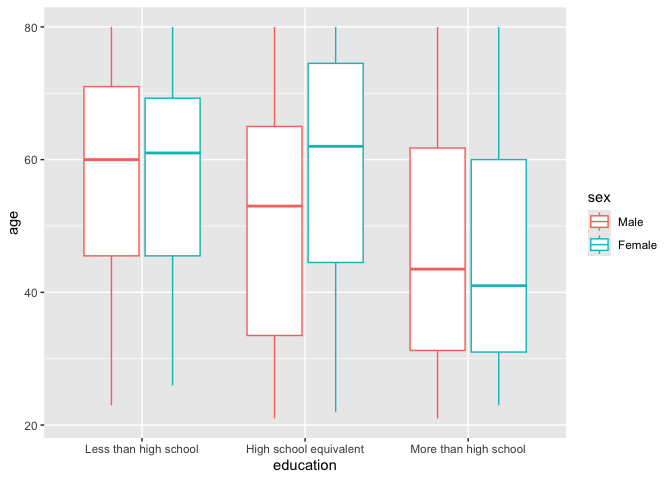
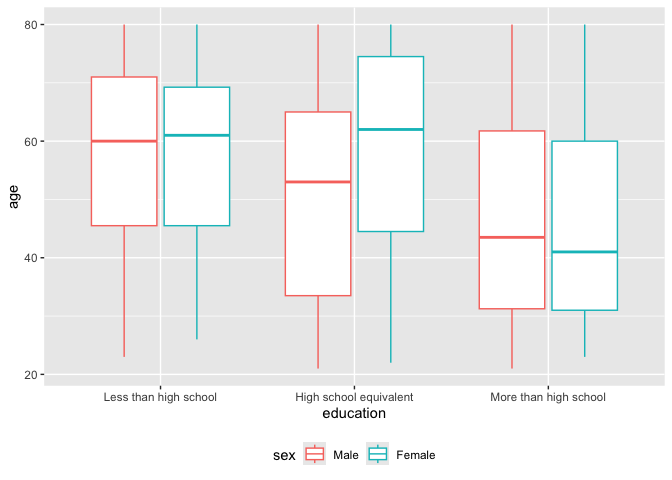
udpated plot for Q2 and make 3 panel plot

diff --git a/p8105_hw3_zg2486.md b/p8105_hw3_zg2486.md
@@ -151,15 +151,11 @@ merge_df %>%
 
 ``` r
 ggplot(merge_df, aes(x = education, y = age, color = sex)) + 
-  geom_boxplot() 
+  geom_boxplot() +
+  theme(legend.position = "bottom")
 ```
 
 ![](p8105_hw3_zg2486_files/figure-gfm/unnamed-chunk-5-1.png)<!-- -->
-
-``` r
-  # facet_grid(. ~ sex)
-```
-
 From the boxplot, we can see similar median age of more than high school
 group and less than high school group, and the have similar distribution
 and range, but the median age of equivalent high school group for female
@@ -176,7 +172,8 @@ total_activity = merge_df %>%
 ggplot(total_activity, aes(x = age, y = total_mims, color = sex)) +
   geom_point(alpha =.5) +
   geom_smooth(se = FALSE) +
-  facet_grid(. ~ education)
+  facet_grid(. ~ education) +
+  theme(legend.position = "bottom")
 ```
 
 ![](p8105_hw3_zg2486_files/figure-gfm/unnamed-chunk-6-1.png)<!-- --> The
@@ -189,10 +186,22 @@ education level is decreasing with age increasing.
 4.  Make a three-panel plot.
 
 ``` r
-ggplot(total_activity, aes(x = sex, y = total_mims, color = sex)) +
-  geom_point(alpha =.5) +
+activity_time = merge_df %>% 
+  pivot_longer(
+    min1:min1440,
+    names_to = "minute",
+    names_prefix = "min",
+    values_to = "mims"
+  ) %>% 
+  mutate(minute = as.numeric(minute)) %>% 
+  group_by(sex, education, minute) %>% 
+  mutate(mean_mims = mean(mims)) 
+
+ggplot(activity_time, aes(x = minute, y = mean_mims, color = sex)) +
+  geom_line(alpha = 0.5) +
   geom_smooth(se = FALSE) +
-  facet_grid(. ~ education)
+  facet_grid(. ~ education) +
+  theme(legend.position = "bottom")
 ```
 
 ![](p8105_hw3_zg2486_files/figure-gfm/unnamed-chunk-7-1.png)<!-- -->
